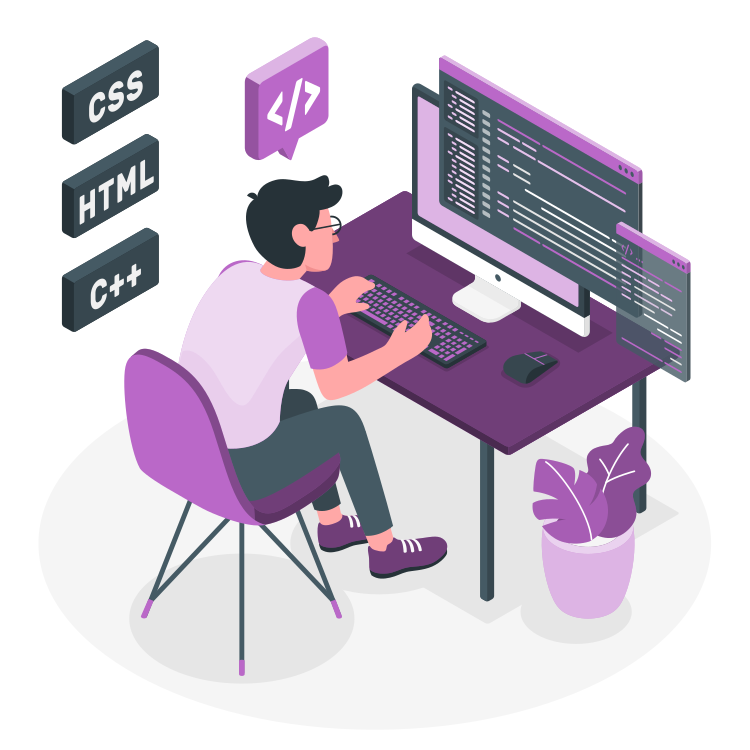
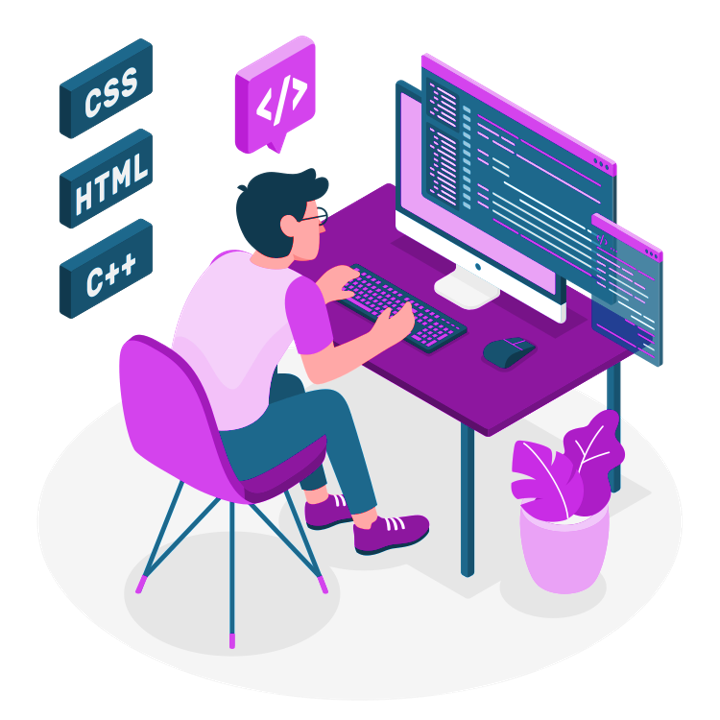
stylings and debugged resume link

diff --git a/src/style.css b/src/style.css
@@ -2,16 +2,16 @@ html {
     --section-background-color: linear-gradient(
       to bottom left,
       rgba(104, 201, 149, 0.582),
-      rgba(3, 95, 23, 0.904)
+      rgba(60, 175, 140, 0.904)
     );
   
     --image-gradient: linear-gradient(
       to bottom left,
-      rgba(13, 160, 179, 0.678),
+      rgba(13, 179, 157, 0.678),
       rgba(26, 52, 56, 0.863)
     );
   
-    --imp-text-color: #12a894;
+    --imp-text-color: #1ff9b8;
   }
   
   .teal {
@@ -53,12 +53,12 @@ html {
   
   /* Track */
   ::-webkit-scrollbar-track {
-    background: #2d1950;
+    background: #03b07c;
   }
   
   /* Handle */
   ::-webkit-scrollbar-thumb {
-    background: rgba(121, 216, 216, 0.959);
+    background: rgba(3, 230, 162);
     border-radius: 12px;
   }
   
@@ -157,7 +157,7 @@ html {
   }
   
   .navbar-nav .nav-link {
-    color: rgb(56, 6, 52) !important;
+    color: rgb(2, 75, 53) !important;
     padding-right: 1rem !important;
     padding-left: 1rem !important;
   }
@@ -191,7 +191,7 @@ html {
     height: 5px;
     width: 0;
     border-radius: 16px;
-    background: #5bd6f5;
+    background: #024b35;
     bottom: 1px;
     left: 0;
     z-index: -1;
@@ -318,10 +318,11 @@ html {
     position: relative;
     padding-bottom: 70px !important;
     padding-top: 70px !important;
+    background: #cdfeef;
   }
   
   .home-about-description {
-    color: rgb(35, 77, 35) !important;
+    color: rgb(21, 71, 21) !important;
     padding-top: 100px !important;
     padding-bottom: 20px !important;
     text-align: center;
@@ -355,7 +356,7 @@ html {
     text-align: center !important;
     font-size: 1.2em !important;
     line-height: 2em !important;
-    background: rgba(255, 255, 255, 0.972) !important;
+    background: rgba(205, 254, 239) !important;
     border-radius: 50% !important;
     transition: 0.5s !important;
   }
@@ -380,9 +381,9 @@ html {
   }
   
   .home-social-icons:hover {
-    color: #87209e;
-    box-shadow: 0 0 5px #87209e;
-    text-shadow: 0 0 2px #87209e;
+    color: #00ff00;
+    box-shadow: 0 0 5px #00ff00;
+    text-shadow: 0 0 2px #00ff00;
   }
   
   .social-icons {
@@ -392,14 +393,14 @@ html {
   }
   
   .icon-colour {
-    color: #700c86 !important;
+    color: #00b300 !important;
   }
   
   /* --------- */
   /* Footer */
   /* --------- */
   .footer {
-    background-color: rgb(10, 4, 22);
+    background-color: rgb(2, 100, 71);
     bottom: 0 !important;
     padding-top: 10px !important;
     padding-bottom: 8px !important ;
@@ -424,7 +425,7 @@ html {
   
   .footer h3 {
     font-size: 1em;
-    color: white !important;
+    color: rgb(31, 249, 184) !important;
     margin-top: 0.5em !important;
     margin-bottom: 0.5em !important;
   }
@@ -456,7 +457,7 @@ html {
   }
   
   .project-card-view {
-    box-shadow: 0 4px 5px 3px rgba(119, 53, 136, 0.459) !important;
+    box-shadow: 0 4px 5px 3px rgba(0, 204, 102) !important;
     color: white !important;
     background-color: transparent !important;
     opacity: 0.9 !important;
@@ -514,12 +515,12 @@ html {
   
   .btn-primary {
     color: #fff !important;
-    background-color: #623686 !important;
-    border-color: #623686 !important;
+    background-color: #00994d !important;
+    border-color: #00994d !important;
   }
   
   .btn-primary:hover {
-    color: #fff !important;
+    color: rgb(255, 255, 255) !important;
     background-color: #6d20c5d7 !important;
     border-color: #6d20c5d7 !important;
   }

diff --git a/src/components/Footer.js b/src/components/Footer.js
@@ -24,7 +24,7 @@ function Footer() {
                         <li className="social-icons">
                             <a 
                             href="https://github.com/Kadargo63"
-                            style={{ color: "white" }}
+                            style={{ color: "#1ff9b8" }}
                             target="_blank"
                             rel="noopener noreferrer"
                             >
@@ -34,7 +34,7 @@ function Footer() {
                         <li className="social-icons">
                             <a 
                                 href="https://twitter.com/robertisaacs87"
-                                style={{ color: "white" }}
+                                style={{ color: "#1ff9b8" }}
                                 target="_blank"
                                 rel="noopener noreferrer"
                             >
@@ -44,7 +44,7 @@ function Footer() {
                         <li className="social-icons">
                             <a 
                                 href="https://www.linkedin.com/in/robert-isaacs-mba-165747106/"
-                                style={{ color: "white" }}
+                                style={{ color: "#1ff9b8" }}
                                 target="_blank" 
                                 rel="noopener noreferrer"
                             >
@@ -54,7 +54,7 @@ function Footer() {
                         <li className="social-icons">
                             <a
                                 href="https://www.instagram.com/robert_isaacs87/"
-                                style={{ color: "white" }}
+                                style={{ color: "#1ff9b8" }}
                                 target="_blank" 
                                 rel="noopener noreferrer"
                             >

diff --git a/src/components/About/AboutCard.js b/src/components/About/AboutCard.js
@@ -12,7 +12,7 @@ function AboutCard() {
                         <br /> I'm a Full-Stack Web Developer.
                         <br />
                         <br />
-                        In addition to coding, I also love to :
+                        In addition to coding, I also love:
                     </p>
                     <ul>
                         <li className="about-activity">
@@ -25,7 +25,7 @@ function AboutCard() {
                             <ImPointRight /> Coding some more!
                         </li>
                     </ul>
-                    <p style={{ marginBlockEnd: 0, color: "rgb(115 126 172" }}>
+                    <p style={{ marginBlockEnd: 0, color: "rgb(102, 0, 102)" }}>
                     “If you fail to plan, you're planning to fail.”
                     </p>
                     <footer className="blockqoute-footer">Robert</footer>

diff --git a/src/components/About/Techstack.js b/src/components/About/Techstack.js
@@ -2,11 +2,13 @@ import React from "react";
 import { Col, Row } from "react-bootstrap";
 import {
     DiJavascript1,
+    DiExpress,
     DiReact,
     DiNodejs,
     DiMongodb,
     DiGit,
 } from "react-icons/di";
+import { SiExpress } from "react-icons/si";
 
 function Techstack() {
     return (
@@ -16,6 +18,9 @@ function Techstack() {
             </Col>
             <Col xs={4} md={2} className="tech-icons">
                 <DiJavascript1 />
+            </Col>
+            <Col xs={4} md={2} className="tech-icons">
+                <SiExpress />
             </Col>
             <Col xs={4} md={2} className="tech-icons">
                 <DiReact />

diff --git a/src/components/About/Github.js b/src/components/About/Github.js
@@ -5,12 +5,12 @@ import { Row } from "react-bootstrap";
 function Github() {
     const colorTheme = {
         background: "transparent",
-        text: "#000000",
-        grade4: "014d2d",
-        grade3: "04bd70",
-        grade2: "0af291",
-        grade1: "62f5b8",
-        grade0: "a2fcd7",
+        text: "#ffffff",
+        grade4: "#8400b8",
+        grade3: "#b22ff4",
+        grade2: "#b265f6",
+        grade1: "#c084f5",
+        grade0: "#ecd9fc",
     };
     return (
         <Row style={{ justifyContent: "center", paddingBottom: "10px" }}>

diff --git a/src/components/Resume/ResumeNew.js b/src/components/Resume/ResumeNew.js
@@ -9,7 +9,7 @@ import "react-pdf/dist/esm/Page/AnnotationLayer.css";
 pdfjs.GlobalWorkerOptions.workerSrc = `//cdnjs.cloudflare.com/ajax/libs/pdf.js/${pdfjs.version}/pdf.worker.min.js`;
 
 const resumeLink =
-    "https://github.com/Kadargo63/isaacs-portfolio/raw/main/src/Assets/Robert-Isaacs.pdf";
+    "https://raw.githubusercontent.com/Kadargo63/isaacs-portfolio/main/src/Assets/Robert-Isaacs.pdf";
     
 
 function ResumeNew() {
